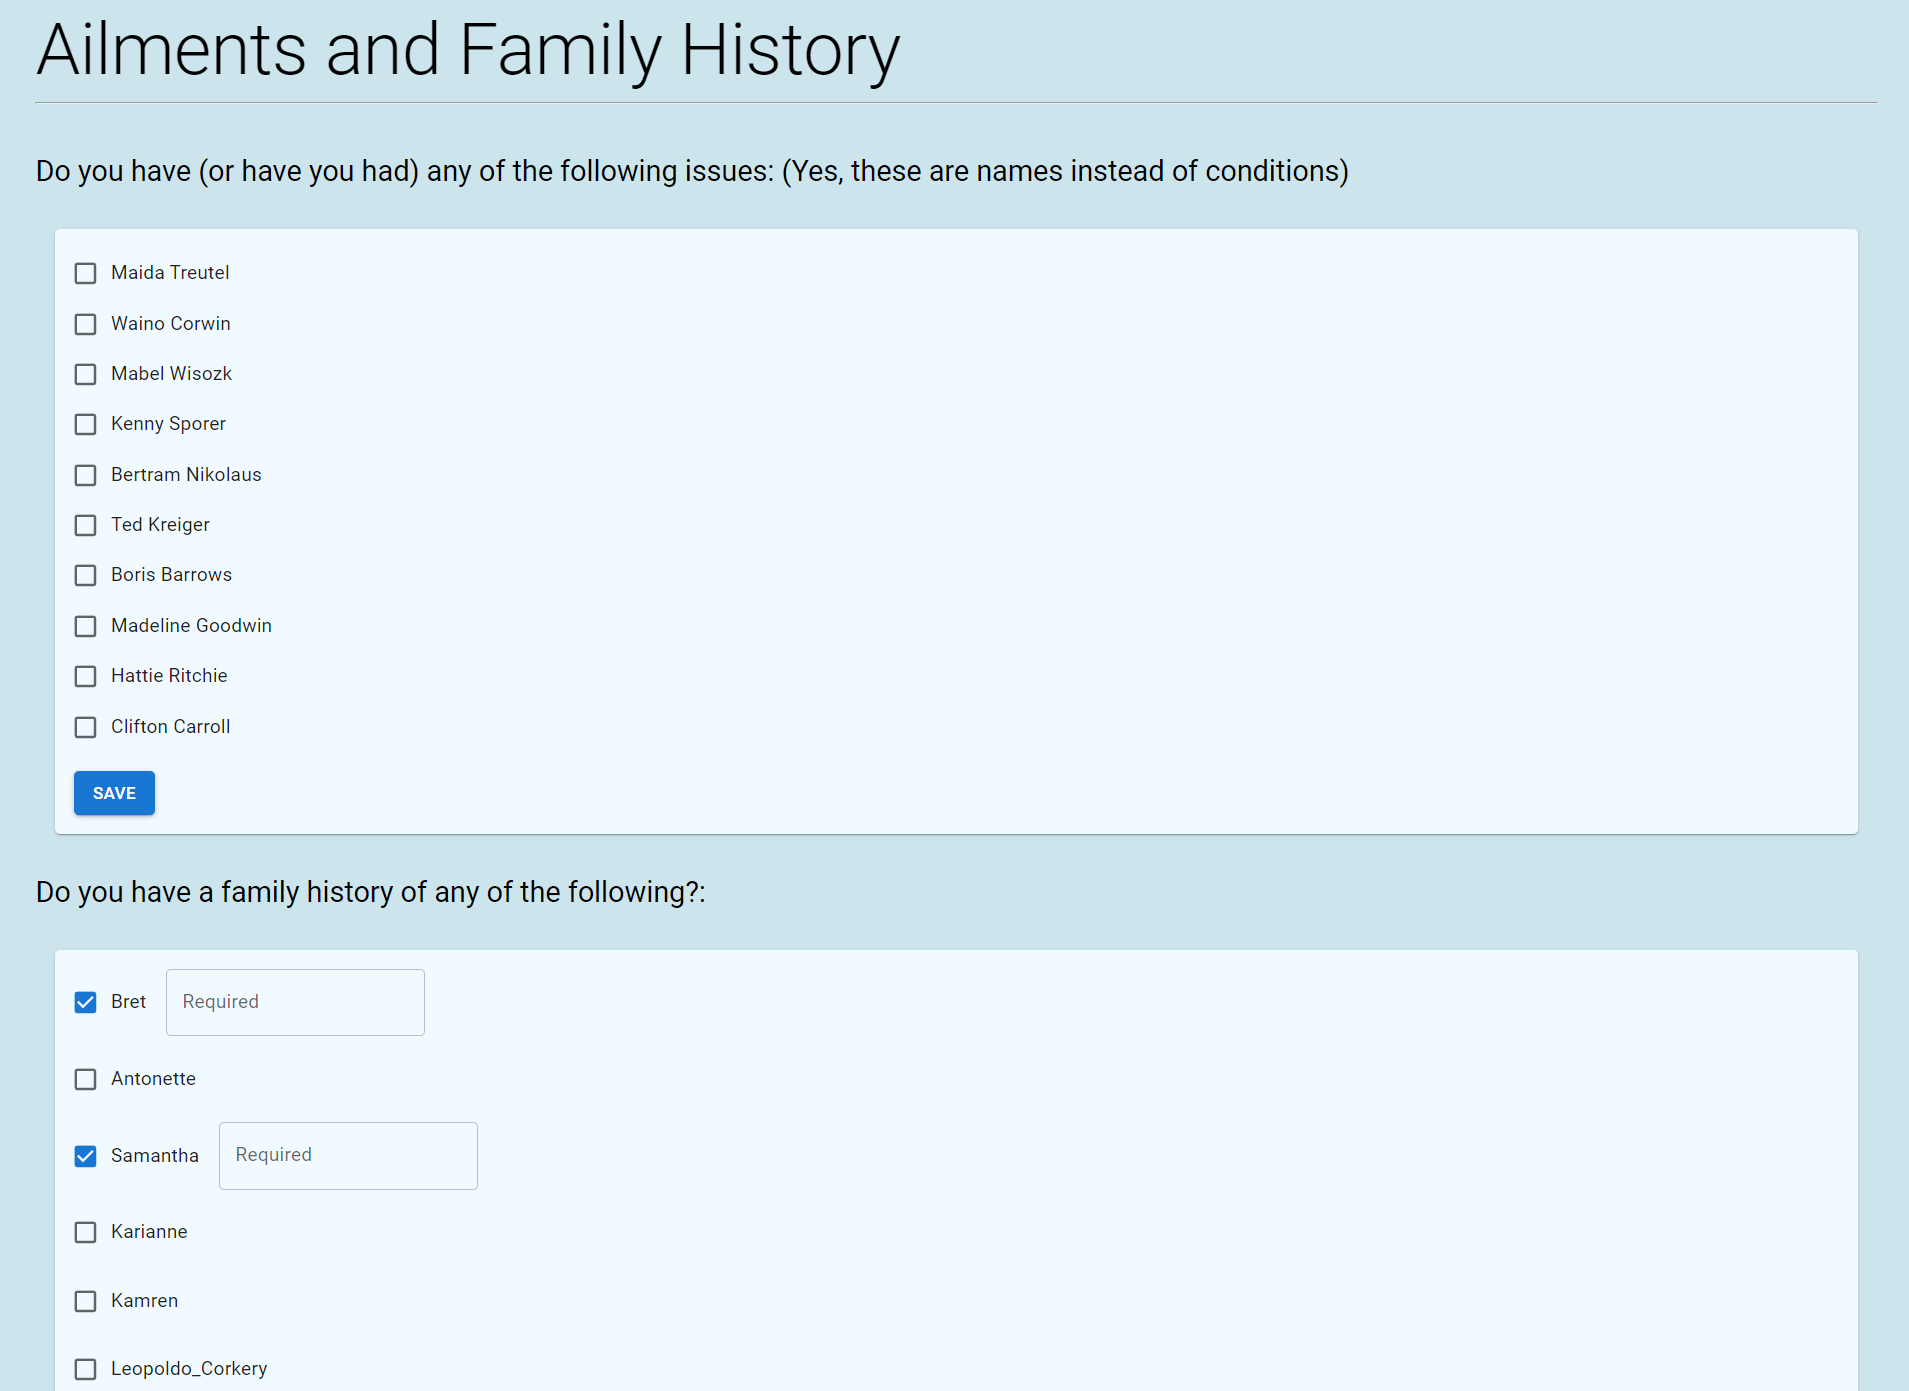
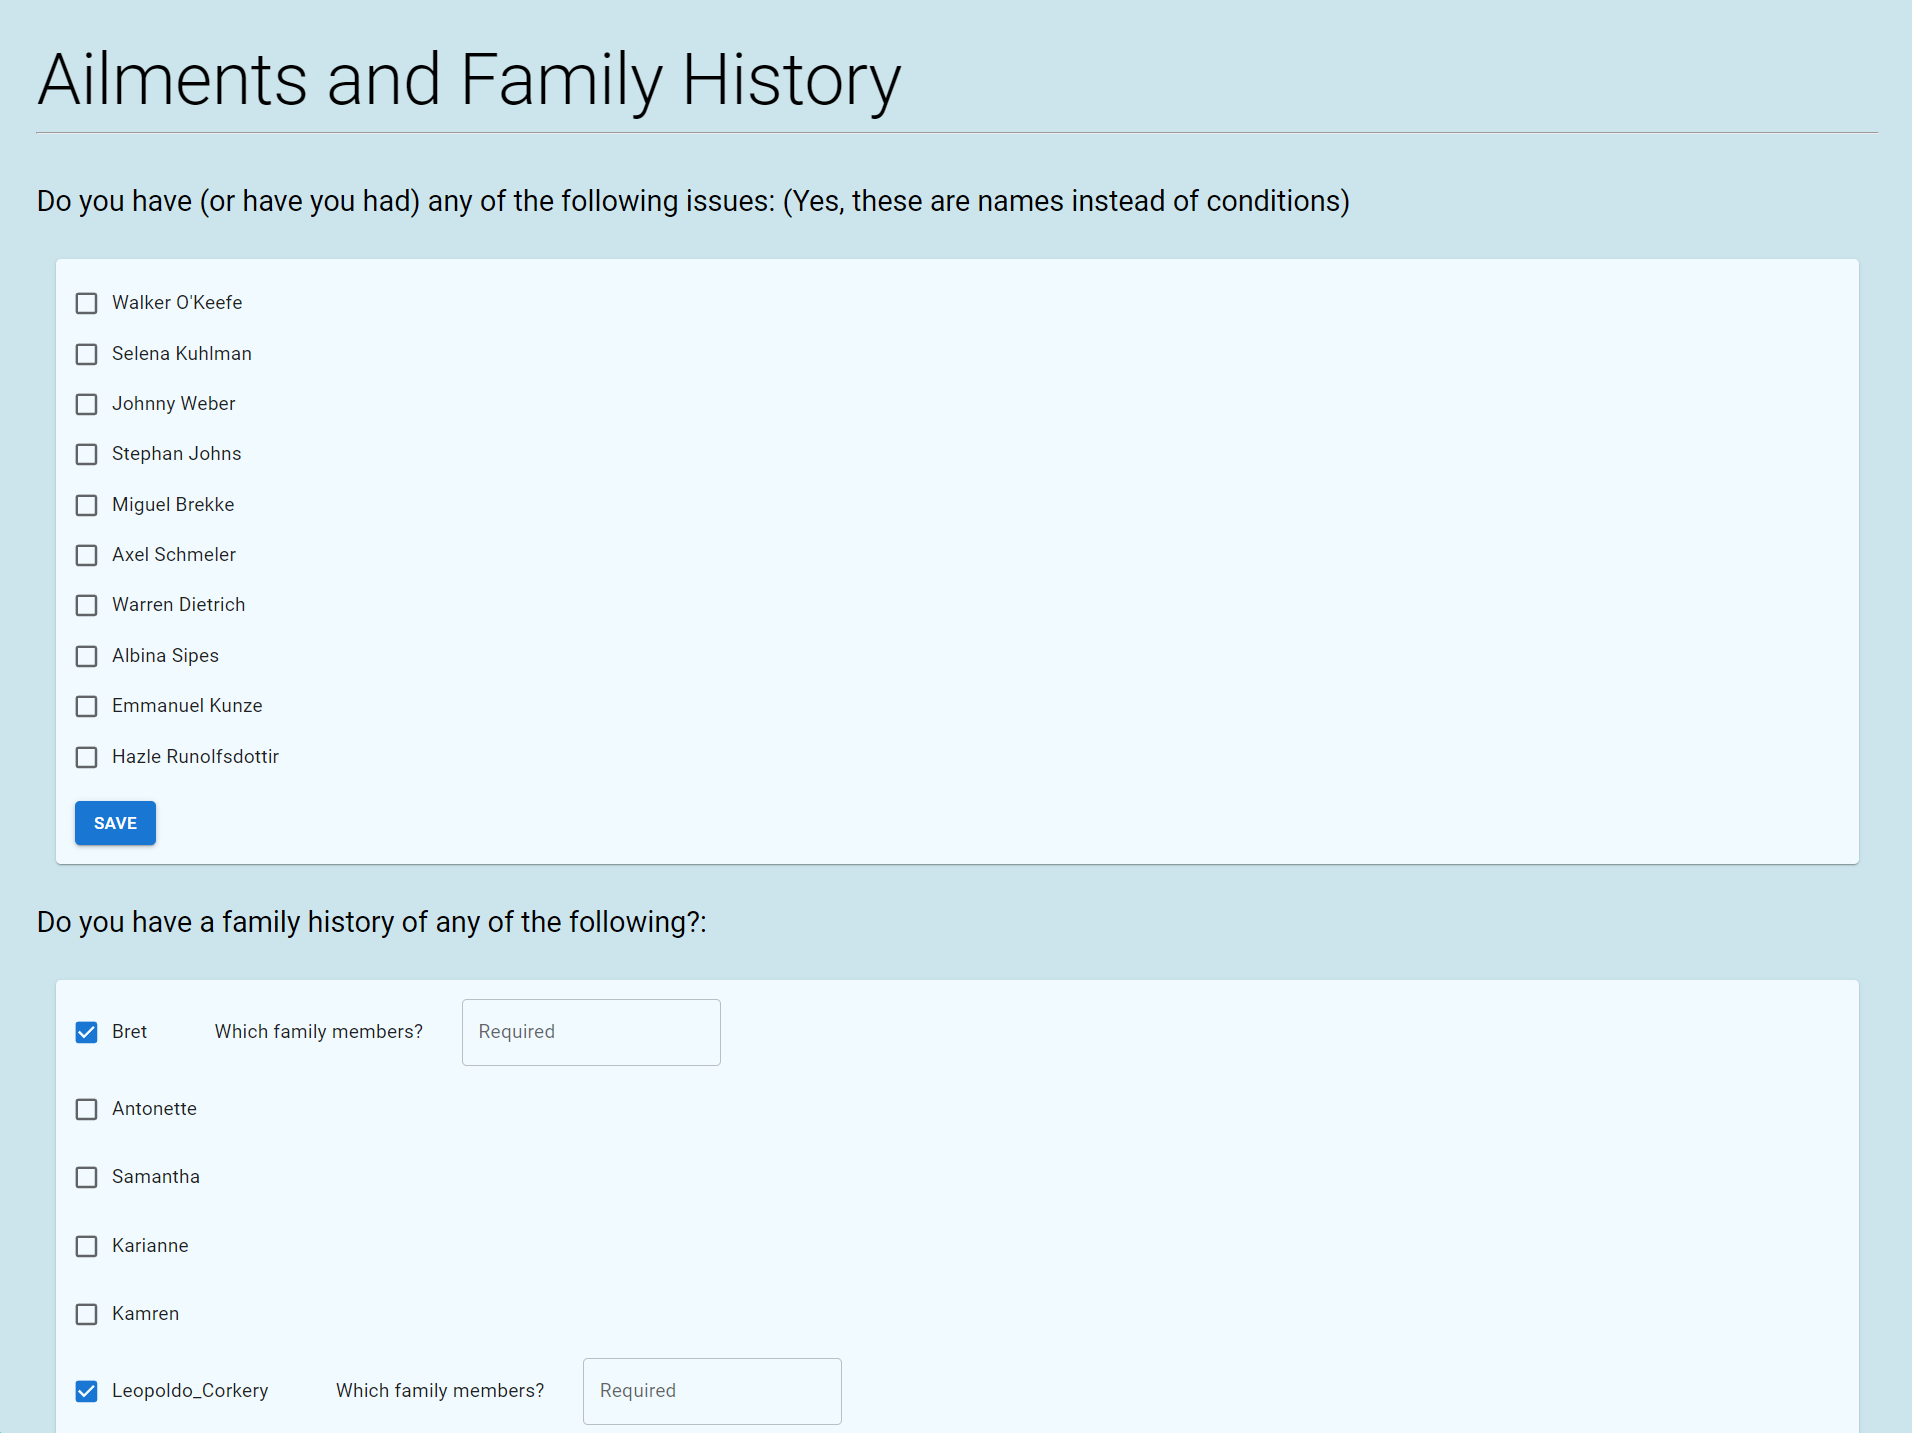
Modified family history and README cleanup

diff --git a/src/History.tsx b/src/History.tsx
@@ -161,14 +161,17 @@ const History = () => {
                 }
                 label={item.username}
               />
-              {isCheckedFamily[item.username] ? (
+              {isCheckedFamily[item.username] ? ( 
+                <>                
+                <Typography sx={{ pl: 5 }}>Which family members?</Typography>
                 <TextField
                   error={textInputs[item.username] === ''}
-                  sx={{ padding: 0 }}
+                  sx={{ padding: 0, marginLeft: 4 }}
                   onChange={(e) => handleChange(e, item.username)}
                   value={textInputs[item.username] || ""}
                   label="Required"
                 ></TextField>
+                </>
               ) : (
                 ""
               )}

diff --git a/README.md b/README.md
@@ -5,7 +5,7 @@ A quickly built self check in app
 
 ## Things it would need to have
 
-### select patient (if haven't before now)
+### Select patient (if haven't before now)
 - or checking in for patient (ex: a kid)
 
 ### Current info
@@ -13,20 +13,20 @@ A quickly built self check in app
 - Email
 - Emergency Contacts
 
-### verification of insurance page
+### Verification of insurance page
 - select insurance on file
 - or enter new insurance
 
-### patient history 
+### Patient history 
 - do you have any of the following conditions
 - do you have a family history of these conditions
    - which family member if so
 
-### selecting pharmacy
+### Selecting pharmacy
 - choose on file or add new
 - probably needs maps integration (googleAPI)
 
-### summary page - confirmation of details 
+### Summary page - confirmation of details 
 - have list of main details
 
 ### Testing for all kinds of stuff
